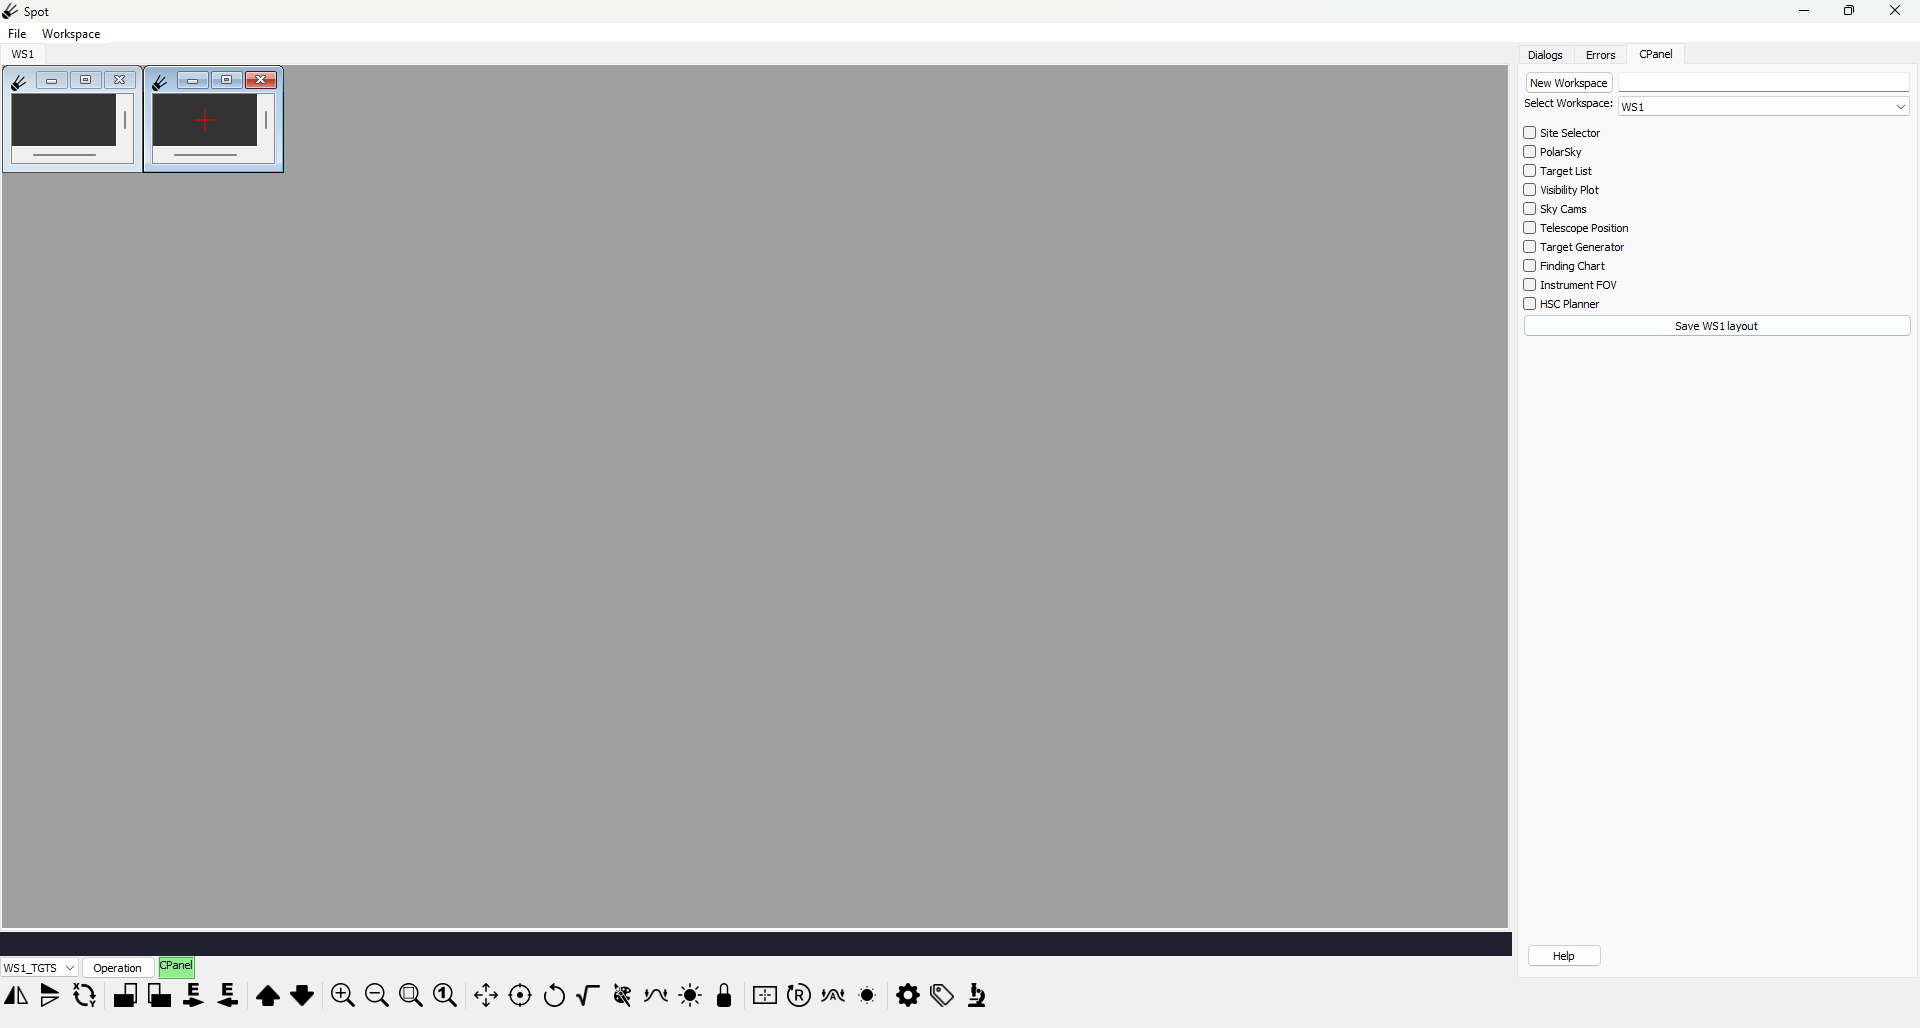
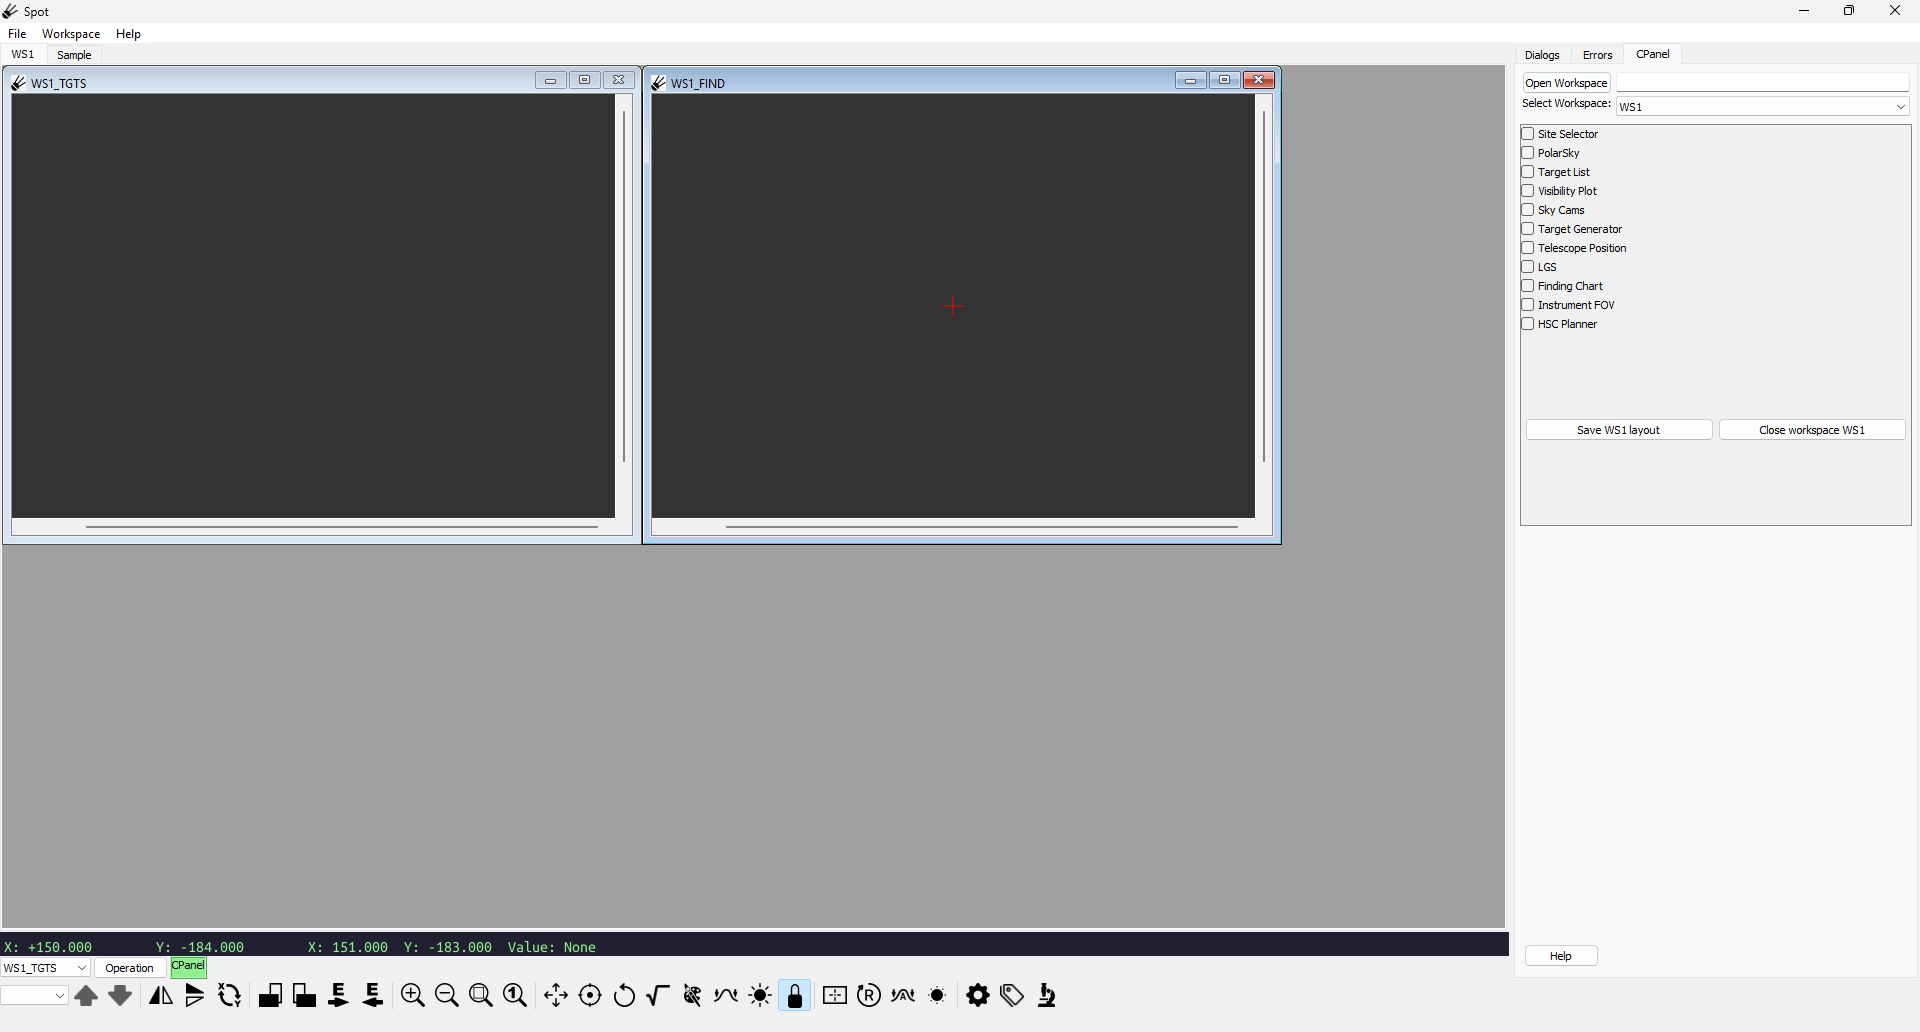
Minor corrections, updated a few images.

diff --git a/doc/manual/telescopepos.rst b/doc/manual/telescopepos.rst
@@ -14,7 +14,7 @@ target positions.
 
 The telescope and target positions are shown in both
 Right Ascension/Declination and Azimuth/Elevation.
-RA and DEC are displayed in sexigesimal notation as 
+RA and DEC are displayed in sexagesimal notation as 
 HH:MM:SS.SSS for RA, and DD:MM:SS.SS for DEC. 
 AZ and EL are both displayed in degrees as decimal 
 values. 
@@ -31,13 +31,11 @@ window so the telescope azimuth is always facing towards the
 top of the screen.
 
 The "Target follows telescope" button will select a target from 
-the target list which matches the telescope pointing. If a target 
-is manually selected from the target list while this option is selected, 
-it will be disabled to avoid conflicts. Similarly, selecting this option 
-will select the target the telescope is pointing toward or will unselect 
-all targets if the telescope is not pointing toward a target from the 
-target list. This option requires a plugin which collects the telescope 
-pointing data.
+the target list which matches the telescope pointing. Similarly, 
+selecting this option will unselect all targets if the telescope is 
+not pointing toward a target from the target list. If a target is 
+manually selected from the target list while this option is selected, 
+this option will be unselected to avoid conflicts. 
 
 ===============
 Enabling Plugin

diff --git a/doc/manual/utils.rst b/doc/manual/utils.rst
@@ -388,7 +388,7 @@ data coordinates in the image; if set to "WCS" then the values shown in
 the "Pan X" and "Pan Y" controls will be WCS coordinates (assuming a valid
 WCS is in the image).  In the latter case, the "WCS sexagesimal" control
 can be left unchecked to show/set the coordinates in degrees, or checked to
-show/set the values in standard sexigesimal notation.
+show/set the values in standard sexagesimal notation.
 
 The "Center Image" button sets the pan position to the center of the
 image, as calculated by halving the dimensions in X and Y.

diff --git a/doc/manual/operation.rst b/doc/manual/operation.rst
@@ -24,8 +24,8 @@ the name will default to "WS1", "WS2", etc.
 .. image:: figures/NewWorkspace.*
 
 When a workspace is opened two channels will appear,
-"wsname"_TGTS and "wsname"_FIND. You will normally want to resize
-these channel windows to be larger than the default size.
+"wsname"_TGTS and "wsname"_FIND. You may want to resize
+these channel windows.
 The TGTS channel (Targets Channel) is used to display a map of the sky. 
 Initially it will be blank, so in the CPanel window press 
 :doc:`siteselect`, :doc:`polarsky`, and :doc:`targetlist`. 

diff --git a/doc/manual/targetlist.rst b/doc/manual/targetlist.rst
@@ -18,7 +18,7 @@ Targets can be loaded from a CSV file that contains a column header
 containing the column titles "Name", "RA", "DEC", and "Equinox" (they
 do not need to be in that order).  Other columns may be present but will
 be ignored.  In this format, RA and DEC can be specified as decimal values
-(in which case they are interpreted as degrees) or sexigesimal notation
+(in which case they are interpreted as degrees) or sexagesimal notation
 (HH:MM:SS.SSS for RA, DD:MM:SS.SS for DEC).  Equinox can be specified
 as e.g. J2000 or 2000.0.
 

diff --git a/doc/manual/intfov.rst b/doc/manual/intfov.rst
@@ -29,7 +29,7 @@ flipped across the vertical axis by checking the "Flip" box.
 
 The RA and DEC will be autofilled by the :doc:`findchart` channel, but 
 can also be adjusted manually by entering in the coordinates. The
-RA and DEC can be specified as decimal values or sexigesimal notation.
+RA and DEC can be specified as decimal values or sexagesimal notation.
 
 
 .. _Wright et al (2010): https://ui.adsabs.harvard.edu/abs/2010AJ....140.1868W/abstract

diff --git a/doc/manual/hsc.rst b/doc/manual/hsc.rst
@@ -25,7 +25,7 @@ DEC, Equinox and Object fields should be filled out.
 
 If you prefer to set it manually, you can type RA and DEC coordinates
 into the corresponding boxes under the "Pointing" section of the GUI
-and click "Set manually". You can use sexigesimal format, with RA in
+and click "Set manually". You can use sexagesimal format, with RA in
 H:M:S and DEC in D:M:S or decimal numbers interpreted as degrees.
 
 ==========================
